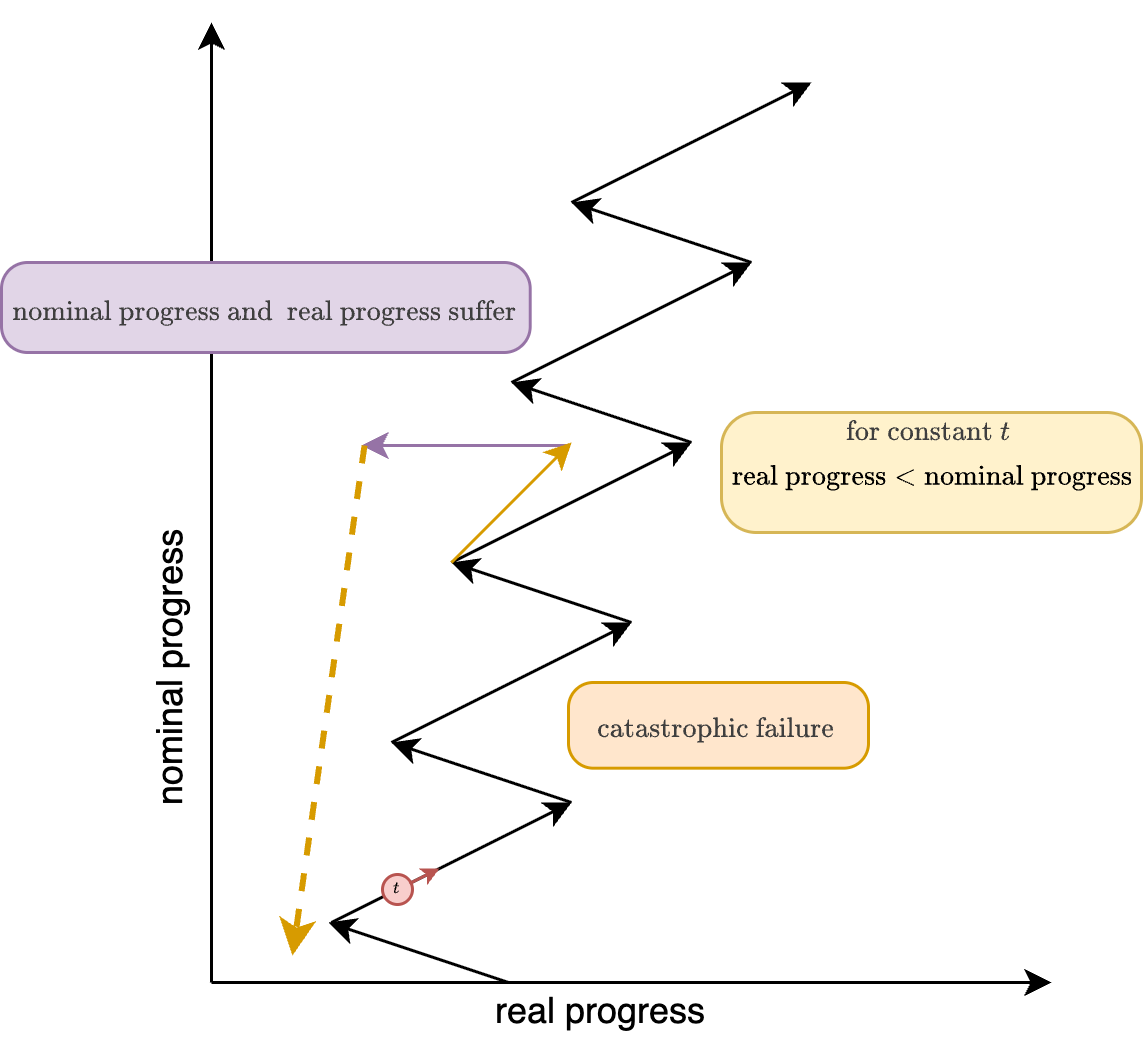
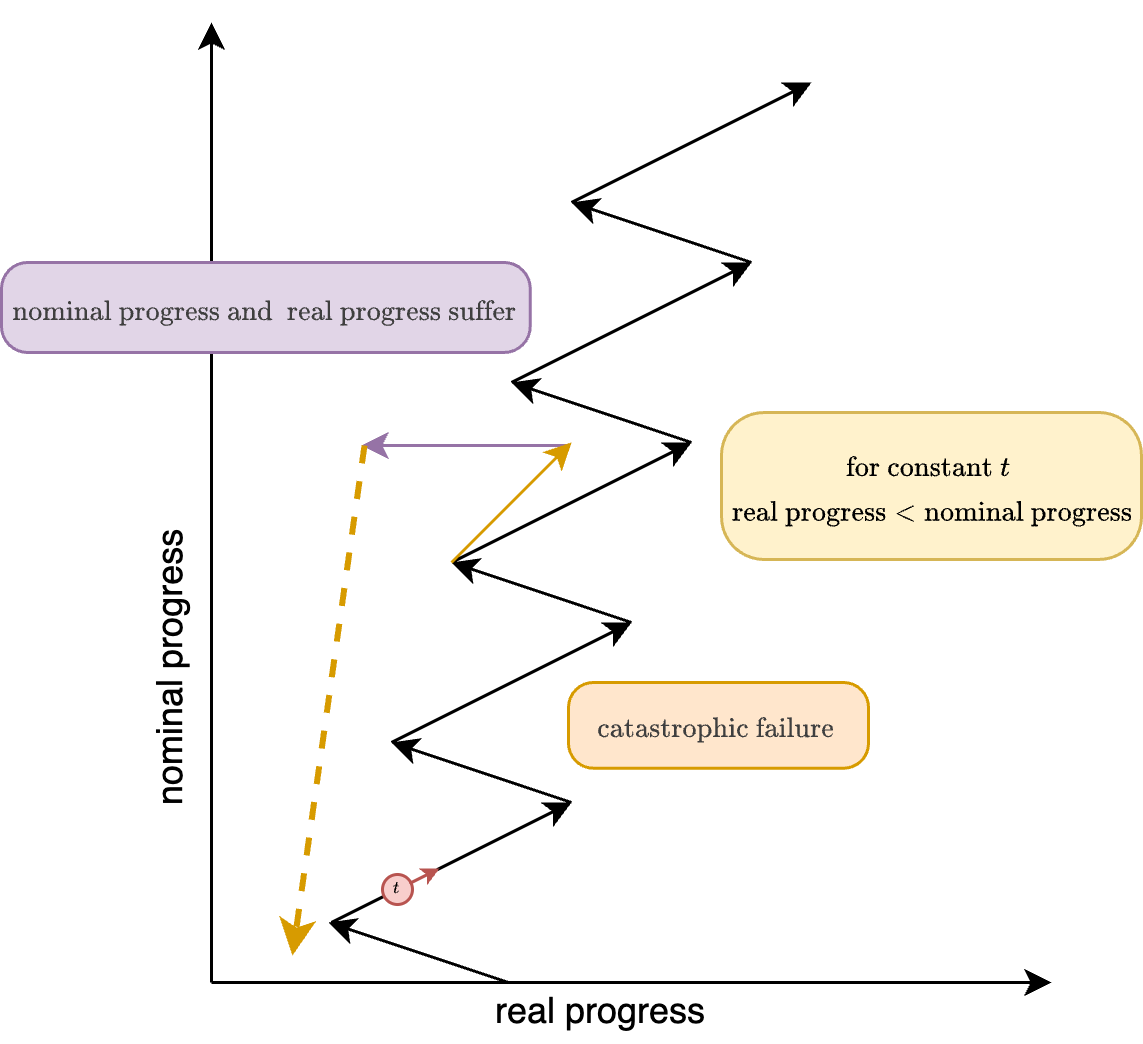
Add trigenic tau model comparison, SIMB abstract, and metabolism notes
- Add trigenic τ model-comparison script auditing error-bar provenance
  across Yeast9/DCell/DANGO/TorchCell, with its dendron note and figure
- Move SIMB 2026 conference abstract into a permanent dendron note,
  with a caveat flagging SEM-vs-reported-SE inconsistency before submission
- Add beta-carotene/betaxanthin metabolism note; update tryptophan note
- Add high-level schematize draw.io diagram; update dev-third-way diagram
- Add iBioFoundry-AI to torchcell.code-workspace folders
- Add weekly task note for 2026 ISO week 23

Changed region(s): [[0.6124, 0.3985, 1.0, 0.5517], [0.9799, 0.3985, 1.0, 0.4291], [0.6124, 0.3985, 0.643, 0.4291]]

diff --git a/experiments/010-kuzmin-tmi/scripts/trigenic_tau_model_comparison.py b/experiments/010-kuzmin-tmi/scripts/trigenic_tau_model_comparison.py
@@ -1,0 +1,103 @@
+# experiments/010-kuzmin-tmi/scripts/trigenic_tau_model_comparison.py
+# [[experiments.010-kuzmin-tmi.scripts.trigenic_tau_model_comparison]]
+# https://github.com/Mjvolk3/torchcell/tree/main/experiments/010-kuzmin-tmi/scripts/trigenic_tau_model_comparison
+
+import os
+import os.path as osp
+
+import matplotlib.pyplot as plt
+import numpy as np
+from dotenv import load_dotenv
+
+import torchcell
+from torchcell.timestamp import timestamp
+
+load_dotenv()
+ASSET_IMAGES_DIR = os.getenv("ASSET_IMAGES_DIR")
+
+style_file_path = osp.join(osp.dirname(torchcell.__file__), "torchcell.mplstyle")
+plt.style.use(style_file_path)
+
+# --- Data from [[experiments.010-kuzmin-tmi.scripts.trigenic_tau_model_comparison]] ---
+# TorchCell (Ours): reported as mean ± SE across 3 replicates
+torchcell_vals = np.array([0.454 + 0.006, 0.454, 0.454 - 0.006])
+# Dango Repro Best: 3 replicates
+dango_vals = np.array([0.36759, 0.36708, 0.36637])
+# DCell: 3 replicates
+dcell_vals = np.array([0.17321017384529114, 0.1550033837556839, 0.14192065596580505])
+# GEM: deterministic (single value)
+gem_vals = np.array([0.0006])
+
+models = ["Yeast9", "DCell", "DANGO", "TorchCell"]
+means = [
+    gem_vals.mean(),
+    dcell_vals.mean(),
+    dango_vals.mean(),
+    torchcell_vals.mean(),
+]
+sems = [
+    0.0,  # deterministic
+    dcell_vals.std(ddof=1) / np.sqrt(len(dcell_vals)),
+    dango_vals.std(ddof=1) / np.sqrt(len(dango_vals)),
+    0.006,  # reported SE
+]
+
+# --- Colors from draw.io diagram (fill / outline) ---
+# Yeast9=yellow, DCell=purple, DANGO=orange, TorchCell=red
+fill_colors = ["#FFF2CC", "#E1D5E7", "#FFE6CC", "#F8CECC"]
+edge_colors = ["#D6B656", "#9673A6", "#D79B00", "#B85450"]
+
+fig, ax = plt.subplots(figsize=(5, 5))
+
+ax.yaxis.grid(True, color="#D0D0D0", linewidth=1.0, zorder=0)
+ax.xaxis.grid(False)
+ax.set_axisbelow(True)
+
+bars = ax.bar(
+    models,
+    means,
+    yerr=sems,
+    capsize=5,
+    color=fill_colors,
+    edgecolor=edge_colors,
+    linewidth=2.5,
+    width=0.6,
+    error_kw={"linewidth": 1.5, "capthick": 1.5, "color": "#333333"},
+    zorder=3,
+)
+
+ax.set_ylabel(r"Pearson $r$ (Trigenic $\boldsymbol{\tau}$)")
+ax.set_ylim(0, 0.55)
+ax.set_yticks(np.arange(0, 0.55, 0.1))
+
+# Add value labels above bars
+for bar, mean, sem in zip(bars, means, sems):
+    label_y = mean + sem + 0.012
+    if mean < 0.01:
+        label = f"{mean:.4f}"
+    else:
+        label = f"{mean:.3f}"
+    ax.text(
+        bar.get_x() + bar.get_width() / 2,
+        label_y,
+        label,
+        ha="center",
+        va="bottom",
+        fontsize=13,
+        fontweight="bold",
+    )
+
+for spine in ax.spines.values():
+    spine.set_visible(True)
+    spine.set_linewidth(1.5)
+    spine.set_edgecolor("black")
+
+plt.tight_layout()
+
+save_path = osp.join(
+    ASSET_IMAGES_DIR, f"010-kuzmin-tmi/trigenic_tau_model_comparison_{timestamp()}.png"
+)
+os.makedirs(osp.dirname(save_path), exist_ok=True)
+plt.savefig(save_path, dpi=300)
+print(f"Saved: {save_path}")
+plt.close()

diff --git a/notes/experiments.010-kuzmin-tmi.scripts.trigenic_tau_model_comparison.md b/notes/experiments.010-kuzmin-tmi.scripts.trigenic_tau_model_comparison.md
@@ -1,0 +1,59 @@
+---
+id: 22ak4tyr1qjszrjy3e37b0o
+title: Trigenic_tau_model_comparison
+desc: ''
+updated: 1775940196456
+created: 1775915387399
+---
+Source data and provenance for the trigenic τ model-comparison bar chart produced by `experiments/010-kuzmin-tmi/scripts/trigenic_tau_model_comparison.py`.
+
+![trigenic_tau_model_comparison](assets/images/010-kuzmin-tmi/trigenic_tau_model_comparison_2026-04-13-00-57-40.png)
+
+## 2026.04.11 - Source Data
+
+Ours TorchCell Graph Regularized Transformer
+
+| Val Pearson | Val Spearman |
+| :--- | :--- |
+| $\mathbf{0.454} \pm \mathbf{0.006}$ | $\mathbf{0.421} \pm \mathbf{0.004}$ |
+
+Dango Repro Best (3 replicates)
+
+```text
[phone redacted]
[phone redacted]
[phone redacted]
+```
+
+DCell - use the val pearson shown (3 replicates)
+
+```text
+0.17321017384529114
[phone redacted]
+0.14192065596580505
+```
+
+GEM (Yeast9) fitness pearson - deterministic modeling, so no SE
+
+```text
+Pearson r = 0.0006
+```
+
+## 2026.06.04 - Error-Bar Provenance (which whiskers are real)
+
+Caveat recorded after auditing `trigenic_tau_model_comparison.py`. The four error bars are **not all the same statistical quantity**, so be careful when presenting them side by side.
+
+| Model | Mean | Error bar | Underlying data | Error type |
+| :--- | :--- | :--- | :--- | :--- |
+| Yeast9 | 0.0006 | 0.0 | single deterministic value | legitimately zero (no replicates by nature) |
+| DCell | 0.157 | ≈ 0.009 | 3 real replicate Pearson values | **SEM** = `std(ddof=1)/√3` (computed) |
+| DANGO | 0.367 | ≈ 0.0004 | 3 real replicate Pearson values | **SEM** = `std(ddof=1)/√3` (computed) |
+| TorchCell | 0.454 | 0.006 | reported `0.454 ± 0.006`; **no raw replicates** | **reported SE, hardcoded** |
+
+Key points:
+
+- **None of the error bars are dummy placeholders** — every value is grounded in data. The Yeast9 zero is real (a deterministic FBA model has nothing to average over).
+- **DCell and DANGO** are genuine: three replicate Pearson values each, with a properly computed SEM.
+- **TorchCell** has no raw replicate array in the source — only the reported `0.454 ± 0.006`. The script *reconstructs* a synthetic 3-element array (`mean+SE, mean, mean−SE`) purely so the bar height renders at 0.454, then **hardcodes** the error to the reported `0.006`. The reconstructed array must not be treated as raw data.
+- **Methodological inconsistency to resolve before external use:** DCell/DANGO whiskers are **SEM**, while TorchCell's is a **reported SE** taken at face value. If that reported `± 0.006` is itself a SEM over the TorchCell replicates, the comparison is apples-to-apples; if it is an SD, TorchCell's whisker is ~√3× too large relative to the other two. Confirm what the TorchCell `± 0.006` represents (trace it back to the training run) before publishing.
+- The same statistics appear in the SIMB conference abstract ([[conference.simb-2026.abstract]]) — keep the two in sync.

diff --git a/notes/metabolism.beta-carotene-and-betaxanthin.md b/notes/metabolism.beta-carotene-and-betaxanthin.md
@@ -1,0 +1,45 @@
+---
+id: ztskv1jath0b82zloosjv5t
+title: Beta Carotene and Betaxanthin
+desc: ''
+updated: 1773682537309
+created: 1773676997597
+---
+```mermaid
+graph TD
+  %% Central carbon metabolism
+  G6P[Glucose-6-P] --> F6P[Fructose-6-P]
+  G6P --> PPP[Pentose Phosphate Pathway]
+  F6P --> G3P[Glyceraldehyde-3-P]
+  G3P --> PEP[Phosphoenolpyruvate]
+  PEP --> PYR[Pyruvate]
+
+  %% PPP branch
+  PPP --> E4P[Erythrose-4-P]
+
+  %% Shikimate Pathway → Betaxanthin
+  E4P -- with PEP --> DAHP[DAHP]
+  PEP --> DAHP
+  DAHP --> Shikimate --> Chorismate
+  Chorismate --> Prephenate --> Tyrosine
+  Tyrosine --> LDOPA[L-DOPA]
+  LDOPA --> SecoDOPA[4,5-seco-DOPA]
+  SecoDOPA --> BetalamicAcid[Betalamic Acid]
+  BetalamicAcid -- + amines --> Betaxanthin:::highlight
+
+  %% Mevalonate pathway (yeast)
+  PYR --> AcCoA[Acetyl-CoA]
+  AcCoA --> HMGCoA[HMG-CoA] --> Mevalonate
+  Mevalonate --> IPP[IPP/DMAPP]
+  IPP --> GGPP[GGPP]
+
+  %% Carotenoid biosynthesis
+  GGPP --> Phytoene --> Phytofluene
+  Phytofluene --> ZetaCarotene[ζ-Carotene]
+  ZetaCarotene --> Neurosporene --> Lycopene
+  Lycopene --> GammaCarotene[γ-Carotene]
+  GammaCarotene --> BetaCarotene[β-Carotene]:::highlight
+
+  classDef default fill:#7BB3E0,stroke:#333,stroke-width:2px;
+  classDef highlight fill:#E8943D,stroke:#333,stroke-width:4px;
+```

diff --git a/notes/conference.simb-2026.abstract.md b/notes/conference.simb-2026.abstract.md
@@ -1,0 +1,34 @@
+---
+id: gyeiwy7g4xt6udclcoe3v78
+title: Abstract
+desc: ''
+updated: 1778656170345
+created: 1778445248212
+---
+## Title
+
+**Accelerating Metabolic Engineering through Multimodal Phenotype Prediction with TorchCell and the Cell Graph Transformer**
+
+## Abstract
+
+While deep learning has driven major advances in predicting protein structure and function, comparable progress in systems biology and metabolic engineering has been limited by phenotypic data scattered across heterogeneous studies, whose data structures cannot be easily unified without a shared experimental ontology.
+To bridge this gap, we developed TorchCell, an open-source framework that aggregates heterogeneous metabolic-engineering data and predicts multimodal cellular phenotypes using deep learning.
+Literature and public datasets are annotated using TorchCell's shared experimental ontology and ingested into a Neo4j knowledge graph hosted at NCSA, unifying genotype, phenotype, and environmental records.
+From this knowledge graph, dataloaders construct deep-learning-ready datasets in which each engineered strain is encoded as a perturbation operator over a shared wildtype reference cell that combines genome sequence, gene networks, metabolism, and environment, enabling millions of strains to be represented at scale.
+On these datasets we developed the Cell Graph Transformer (CGT), a virtual cell architecture in which biological interaction graphs constrain multi-head attention through a loss that aligns attention weights to known network priors, and an equivariant perturbation operator transforms the cell embedding into the perturbed strain state before multitask heads decode phenotype predictions.
+In Saccharomyces cerevisiae, CGT predicts trigenic gene-gene interactions with Pearson r = 0.454 ± 0.006 and Spearman ρ = 0.421 ± 0.004, outperforming the deep-learning epistatic interaction models DANGO (r = 0.367 ± 0.0004) and DCell (r = 0.157 ± 0.009), and the mechanistic Yeast9 flux balance analysis, which recovers no epistatic signal (r = 0.0006).
+The same architecture also predicts expression under single and double knockouts (Pearson r = 0.543 ± 0.023) and cell morphology under single knockouts (Pearson r = 0.619 ± 0.037), demonstrating that the same latent cell embedding generalizes across qualitatively different phenotype classes relevant to industrial strain design.
+We have applied CGT to recommend gene deletions for improved production of β-carotene and betaxanthin in S. cerevisiae.
+Unlike most DBTL recommendation tools, which do not represent the strain itself, TorchCell pairs with autonomous platforms such as UIUC's iBioFoundry to enable iterative AI-guided strain engineering for renewable chemicals, fuels, and pigments.
+
+## 2026.06.04 - Error-Bar Provenance Caveat
+
+The trigenic τ comparison reported above (CGT 0.454 ± 0.006; DANGO 0.367 ± 0.0004; DCell 0.157 ± 0.009; Yeast9 0.0006) reuses the values plotted by `experiments/010-kuzmin-tmi/scripts/trigenic_tau_model_comparison.py`. Full provenance and the bar chart are documented in [[experiments.010-kuzmin-tmi.scripts.trigenic_tau_model_comparison]].
+
+**Before submitting**, note that the four uncertainties are not the same statistical quantity:
+
+- **DANGO (± 0.0004)** and **DCell (± 0.009)** are **SEM** computed from 3 replicate Pearson values each.
+- **TorchCell (± 0.006)** is a **reported SE** taken at face value — there is no raw replicate array; the plot reconstructs synthetic values around the mean.
+- **Yeast9 (0.0006)** is deterministic (FBA), so it has no error by nature.
+
+Confirm whether the TorchCell `± 0.006` is an SE/SEM (comparable to DANGO/DCell) or an SD (~√3× too large relative to them) so all reported error bars represent the same quantity.

diff --git a/notes/user.Mjvolk3.torchcell.tasks.weekly.2026.23.md b/notes/user.Mjvolk3.torchcell.tasks.weekly.2026.23.md
@@ -1,0 +1,14 @@
+---
+id: xe602ztxryw81lzvgu6pi8e
+title: '23'
+desc: ''
+updated: 1780623011872
+created: 1780623011872
+---
+
+## 2026.06.04
+
+- [x] Audited error-bar provenance for the trigenic τ model-comparison bar chart and documented which whiskers are real vs placeholders (Yeast9 = legit zero; DCell/DANGO = computed SEM from 3 replicates; TorchCell = hardcoded reported SE over a reconstructed array) [[2026.06.04 - Error-Bar Provenance|experiments.010-kuzmin-tmi.scripts.trigenic_tau_model_comparison#20260604---error-bar-provenance-which-whiskers-are-real]]
+- [x] Moved the trigenic τ data/provenance note out of `scratch.*` into the script's dendron note and embedded the plot [[trigenic τ model comparison|experiments.010-kuzmin-tmi.scripts.trigenic_tau_model_comparison]]
+- [x] Moved the SIMB 2026 conference abstract out of `scratch.*` and added a reciprocal error-bar caveat (flag SEM vs reported SE before submission) [[SIMB 2026 abstract|conference.simb-2026.abstract]]
+- [x] Added `iBioFoundry-AI` to the local `torchcell.code-workspace` folders

diff --git a/notes/metabolism.beta-carotene-and-tryptophan.md b/notes/metabolism.beta-carotene-and-tryptophan.md
@@ -32,5 +32,6 @@ graph LR
   GGPP --> Phytoene --> Lycopene
   Lycopene --> BetaCarotene:::highlight
   
-  classDef highlight fill:#FF9900,stroke:#333,stroke-width:4px;
+  classDef default fill:#7BB3E0,stroke:#333,stroke-width:2px;
+  classDef highlight fill:#E8943D,stroke:#333,stroke-width:4px;
 ```